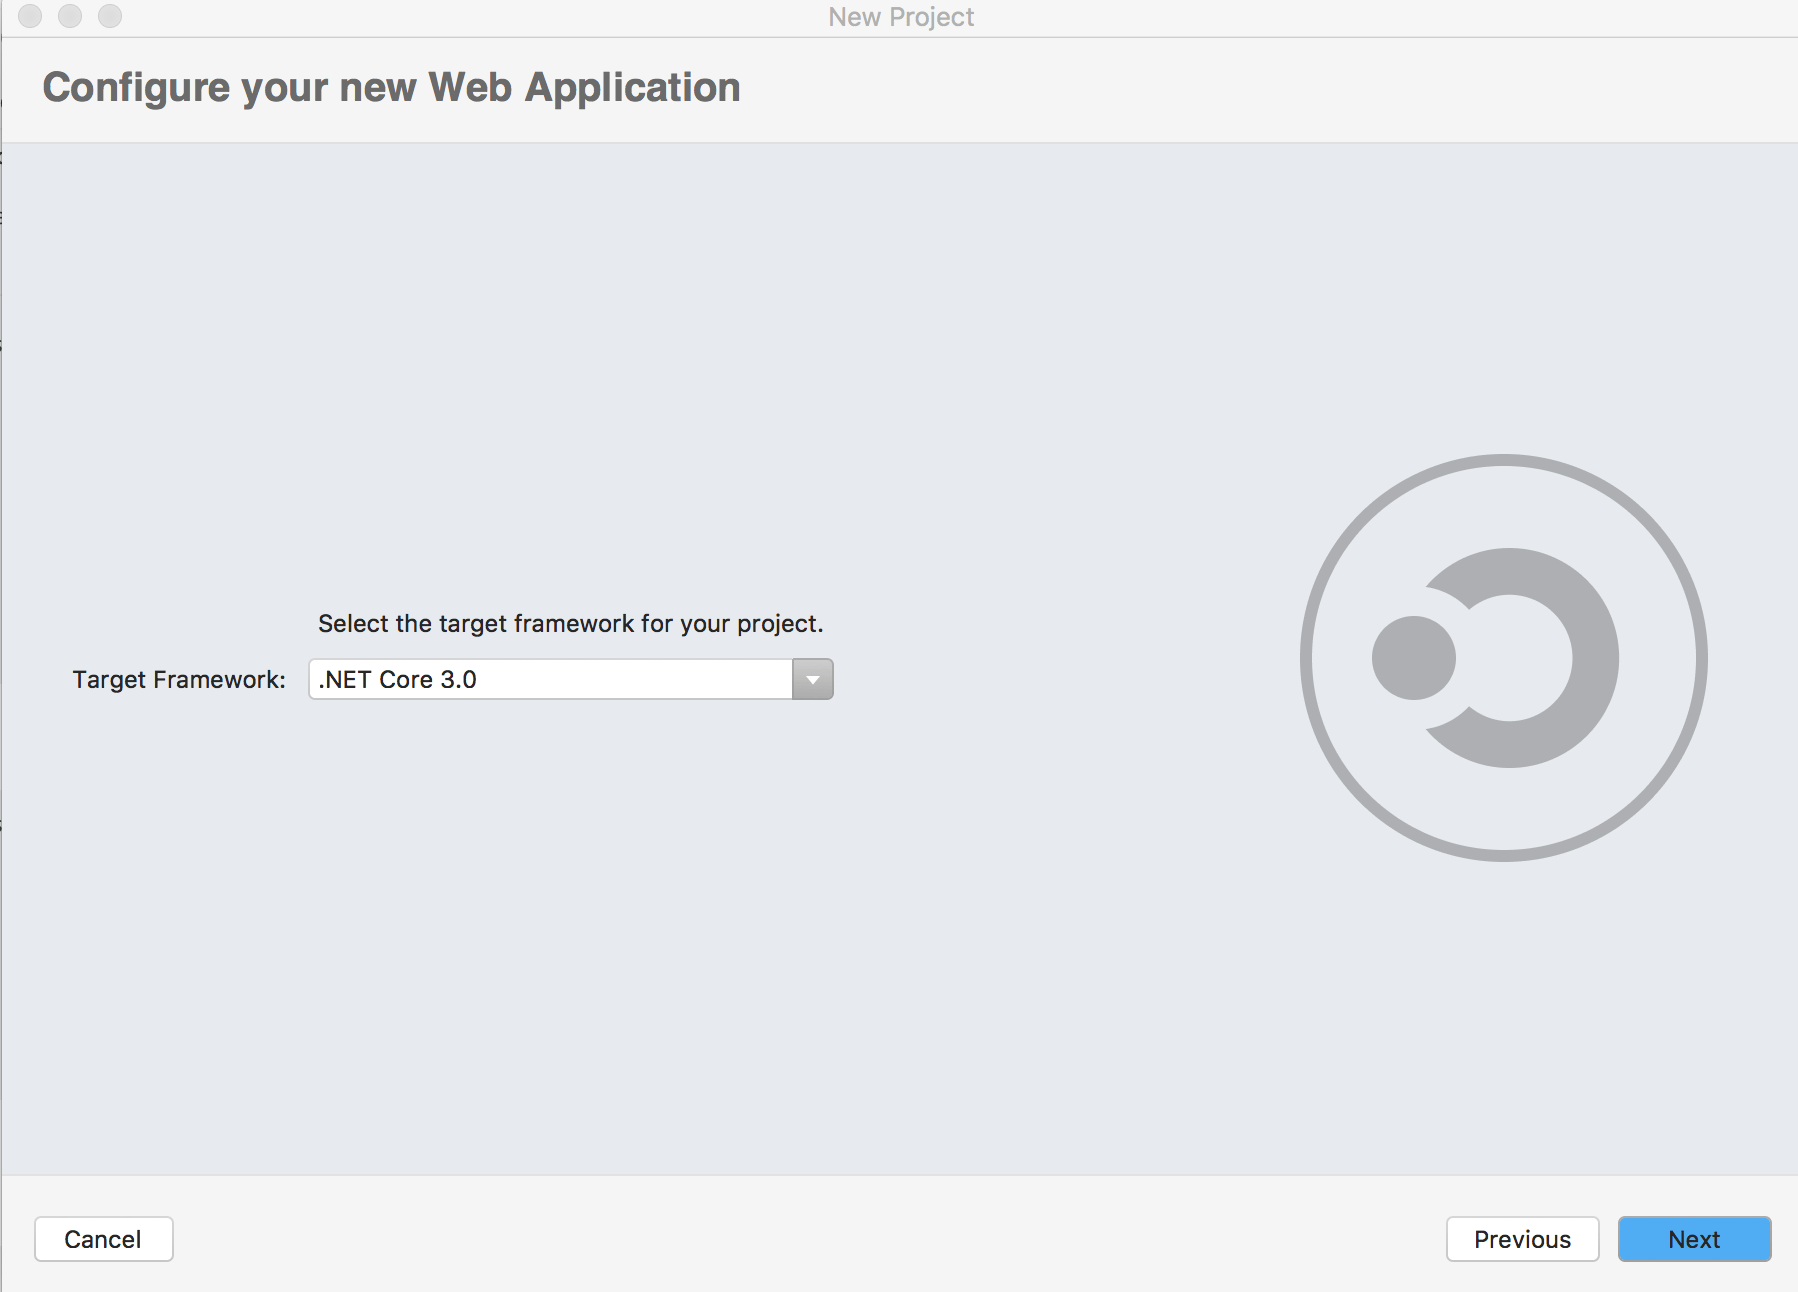
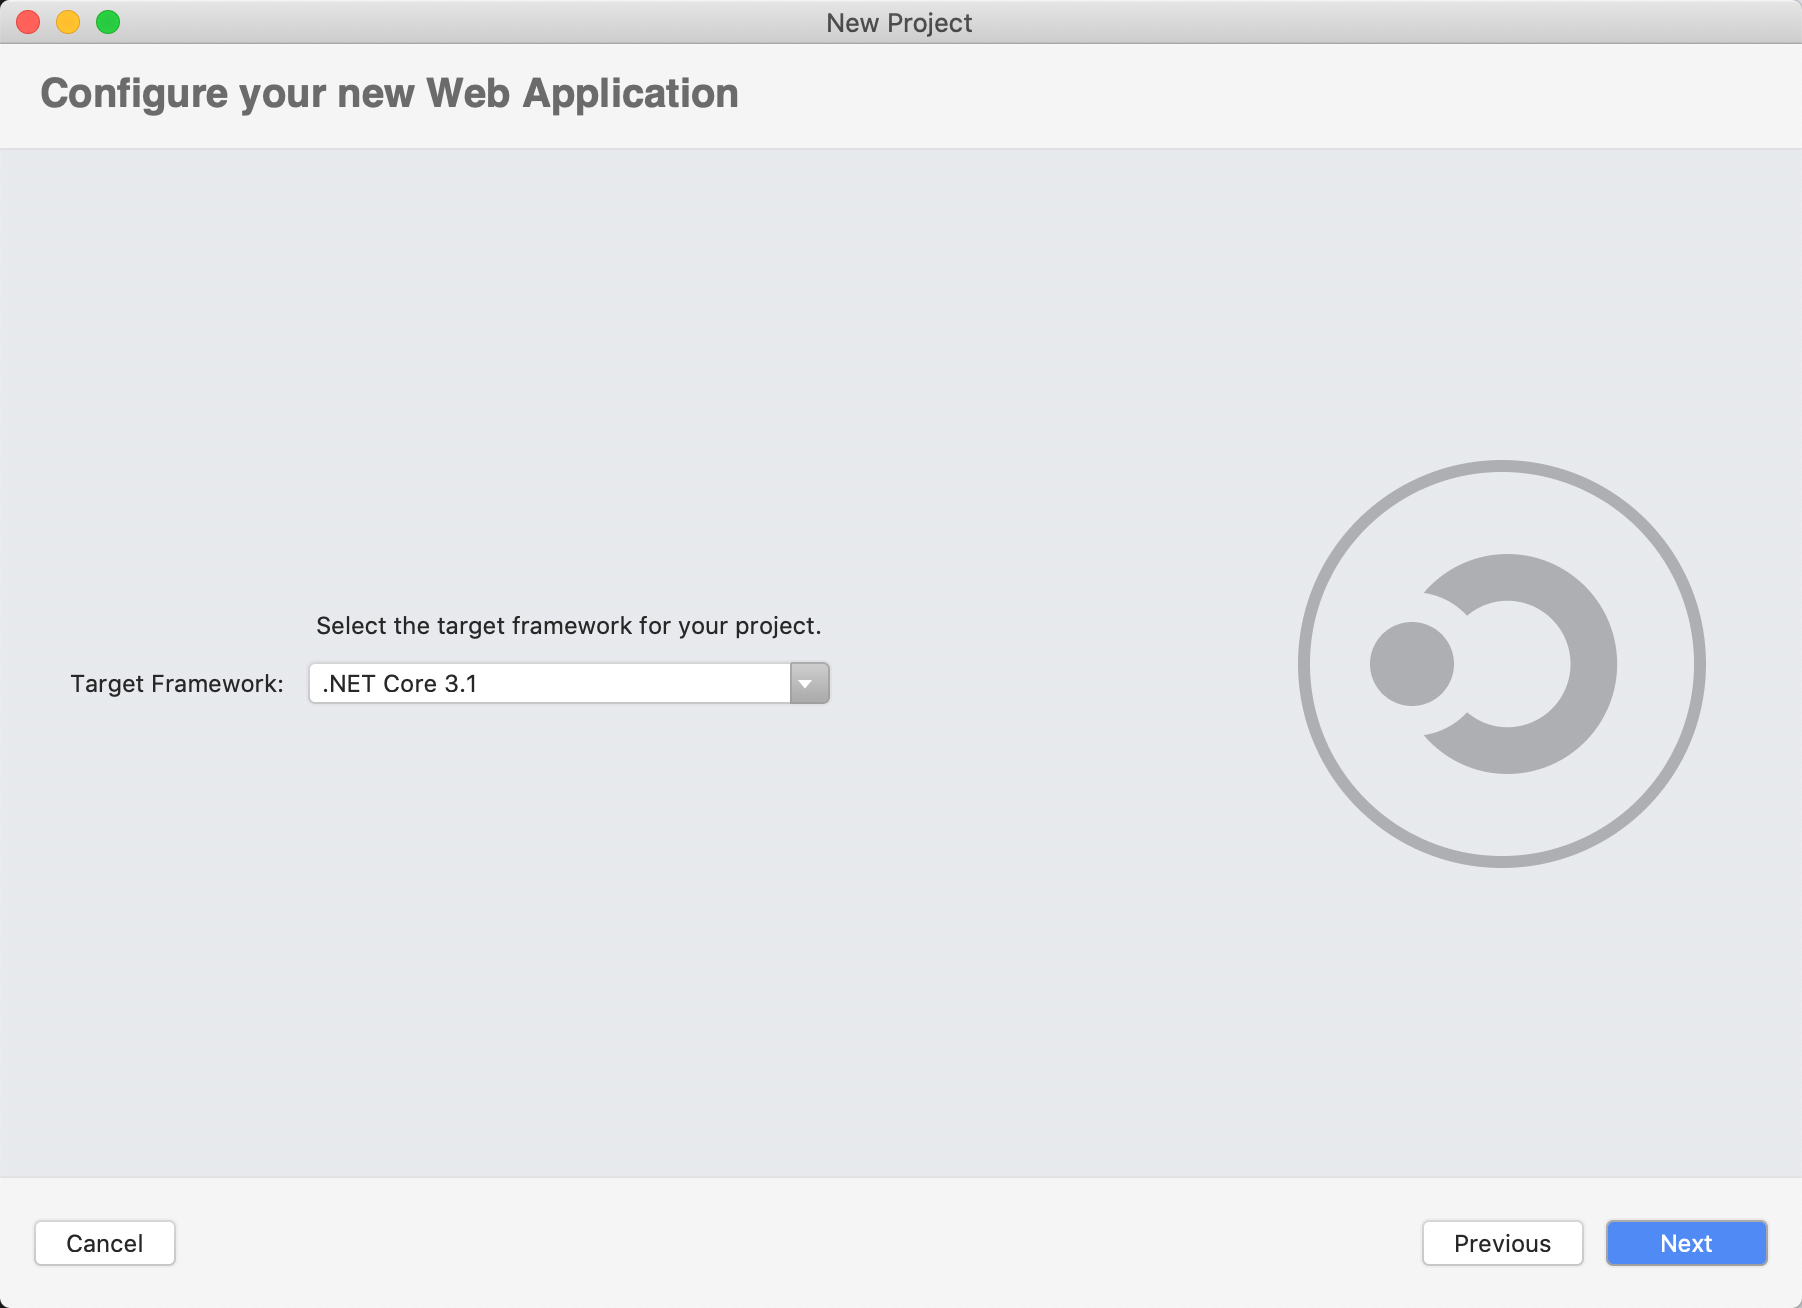
update razor-pages-start.md for vsmac

diff --git a/aspnetcore/tutorials/razor-pages/razor-pages-start.md b/aspnetcore/tutorials/razor-pages/razor-pages-start.md
@@ -103,11 +103,6 @@ At the end of this tutorial, you'll have a working Razor Pages web app that you'
 
   ![nameproj](razor-pages-start/_static/RazorPagesMovie.png)
 
-
-## Open the project
-
-From Visual Studio, select **File > Open**, and then select the *RazorPagesMovie.csproj* file.
-
 <!-- End of VS tabs -->
 
 ---
@@ -237,19 +232,21 @@ At the end of this tutorial, you'll have a working Razor Pages web app that you'
 
 # [Visual Studio for Mac](#tab/visual-studio-mac)
 
-From a terminal, run the following command:
+* Select **File** > **New Solution**.
 
-<!-- TODO: update these instruction once mac support 2.2 projects -->
+![macOS New solution](../first-mvc-app/start-mvc/_static/new_project_vsmac.png)
 
-```dotnetcli
-dotnet new webapp -o RazorPagesMovie
-```
+* Select **.NET Core** > **App** > **Web Application** > **Next**.
 
-The preceding commands use the [.NET Core CLI](/dotnet/core/tools/dotnet) to create a Razor Pages project.
+  ![macOS New project dialog](razor-pages-start/_static/webapp.png)
 
-## Open the project
+* In the **Configure your new ASP.NET Core Web API** dialog, set the  **Target Framework** to **.NET Core 3.1**.
 
-From Visual Studio, select **File > Open**, and then select the *RazorPagesMovie.csproj* file.
+  ![macOS .NET Core 3.0 selection](razor-pages-start/_static/targetframework3.png)
+
+* Name the project **RazorPagesMovie**, and then select **Create**.
+
+  ![nameproj](razor-pages-start/_static/RazorPagesMovie.png)
 
 <!-- End of VS tabs -->
 
